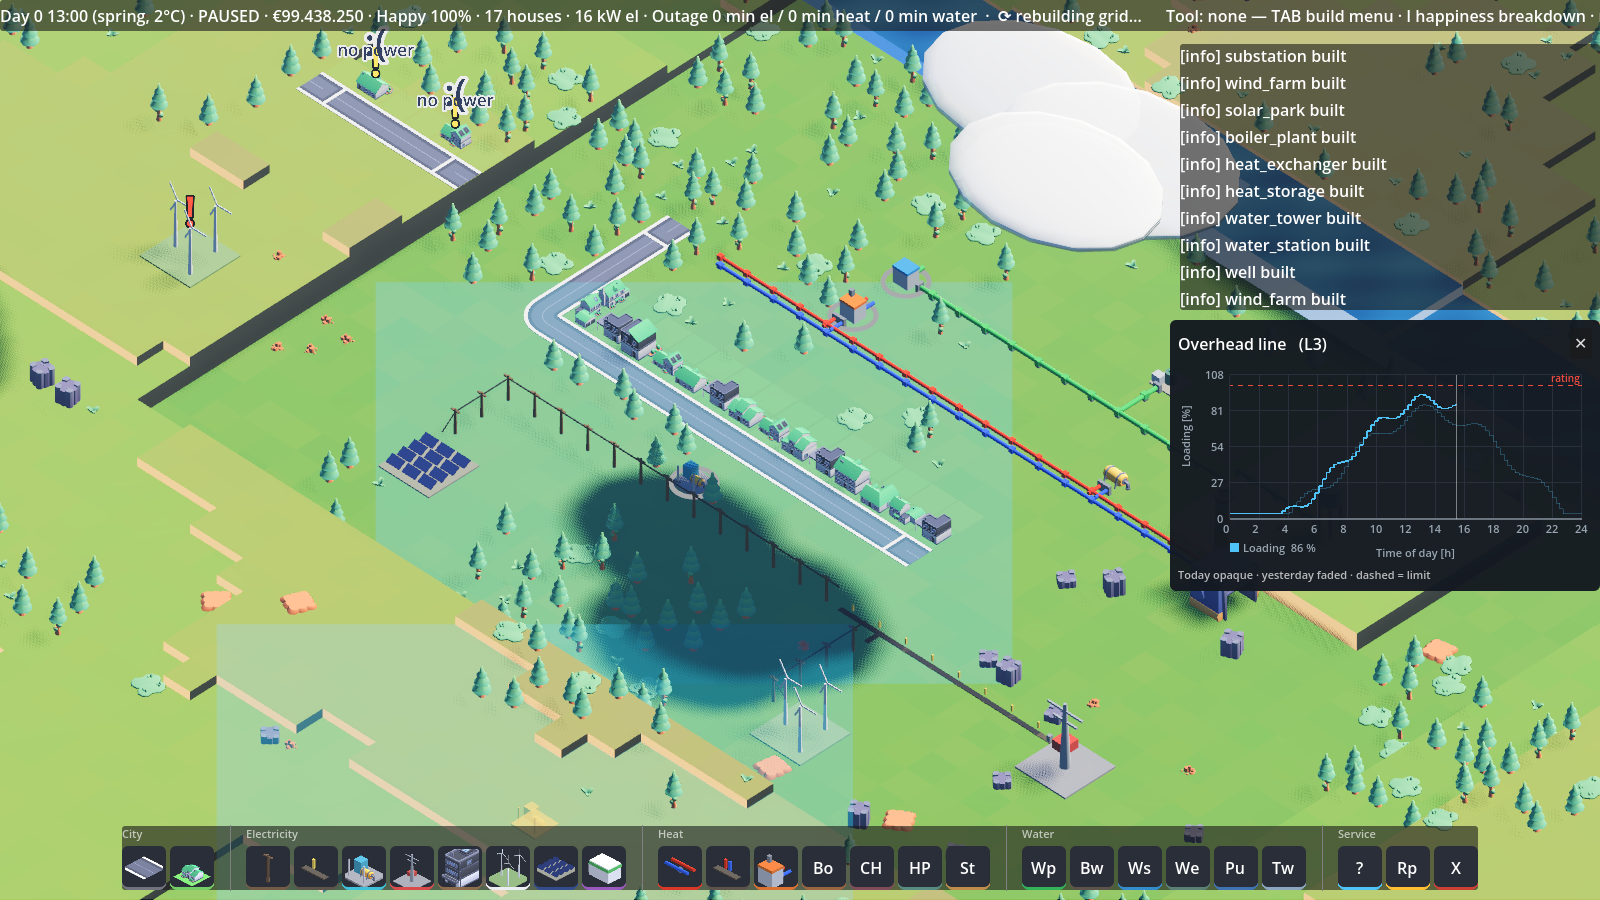
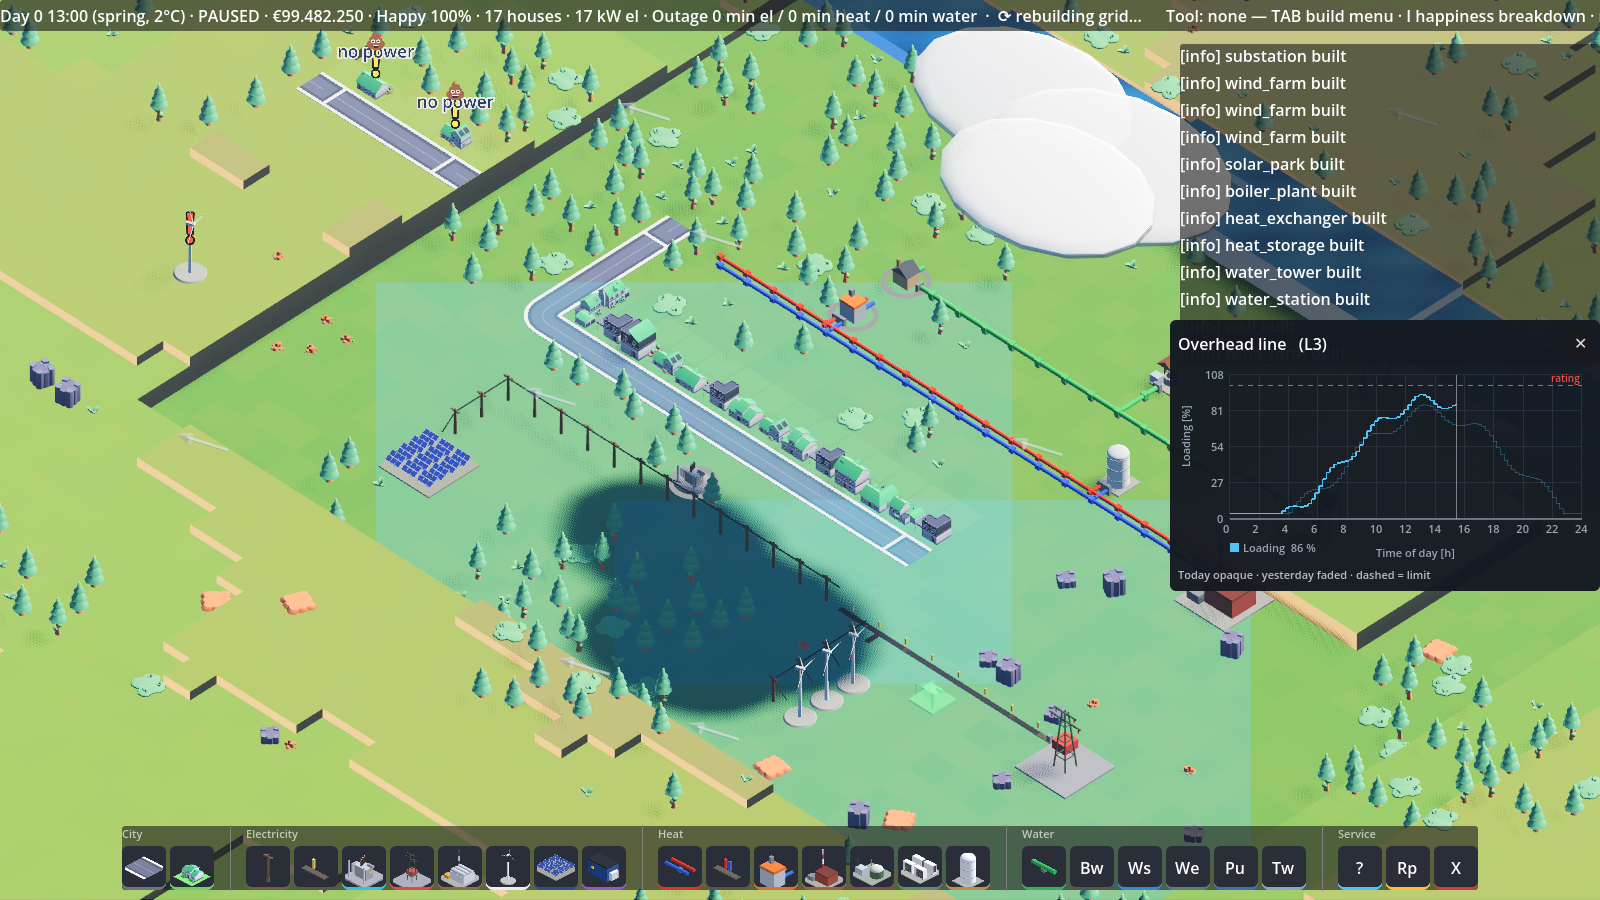
CLAUDE.md day snapshot + README/screenshot renewal after the model pass
CLAUDE.md §7 rewritten as the full 2026-07-31 picture: morning (Linux
port, CI repairs, numba) and the user-driven feature/visual day
(weather-coupled PV, wind + arrows, individual turbines, emoji bubbles,
house inspector, the model pass), with v0.8.3 flagged as the natural
next release. README: individual 3-MW turbines instead of the 9-MW
farm, weather-coupled PV in the demand bullet, wind/turbine-yaw/emoji
in the living-map bullet, houses in the inspector sentence. Day+night
screenshots re-rendered with every new model in frame.

diff --git a/CLAUDE.md b/CLAUDE.md
@@ -322,25 +322,41 @@ re-verified green).
 - The user's memory preference: **lean solo work; state the scale and ask
   before any multi-agent fan-out** (they stopped costly workflows twice).
 
-## 7. Verified state (2026-07-31, Linux port complete)
+## 7. Verified state (2026-07-31 evening, Linux port + visual/systems day)
 
-Everything re-verified NATIVELY ON LINUX after the machine switch:
-GdUnit 98/98 · all 21 smokes green (19 standalone + resilience/cosim-kill
-via the new tests/e2e/*.sh wrappers; the PLAYTEST monkey — a seeded random
-player through the real City APIs with invariant checks — caught houses
-growing on cables and on paved-over zones on day one, both fixed + pinned)
-· shared contract suite 4/4 · full backend suites green (power 192, heat
-213, water 283 — the water EPANET cross-validation errors spuriously if
-game smokes run CONCURRENTLY: its session leak guard counts live
-rtwaterflow.main processes and sees the smoke's sidecars; rerun alone) ·
-releases on GitHub: v0.8.0 + v0.8.1 (verified Windows installers) and
-v0.8.2 (the Linux tarball, built + verified from a fresh extraction;
-a 0.8.2 Windows installer still needs a Windows machine). Repo front
-door done 2026-07-31: README + screenshots (--screenshot mode, day +
-night) + MIT LICENSE + repo description. Phase 8 delivered: envelope v4 (trips, econ books,
-event-system state incl. RNG position, device SoC survive loads), SoC
-replay on every registration (heatstorage smoke pins 0.79→0.79), drag
-stalls halved, `WorldModel.check_invariants`, Windows installer, Linux
-port + tarball. Remaining: contract 1.2 candidates (emitter leaks, CHP
-fuel field, multi-network heat), river BRIDGES (mini-forest ships
-bridge.glb), dry-home visuals, terrain-aware coverage discs.
+MORNING — the machine switch: everything re-verified NATIVELY ON LINUX,
+GdUnit green, all 21 smokes (19 standalone + resilience/cosim-kill via the
+new tests/e2e/*.sh wrappers), shared contract suite 4/4, full backend
+suites green (power 192, heat 213, water 283 — the water EPANET
+cross-validation errors spuriously if game smokes run CONCURRENTLY: its
+session leak guard counts live rtwaterflow.main processes and sees the
+smoke's sidecars; rerun alone). CI repaired the same day: the backend
+docker workflows were broken by `docs` in .dockerignore vs `COPY docs/`
+(both backends serve /manual from docs/ — fixed + verified green on CI),
+and infrastruct's own ci had the win64 console-wrapper rename bug (exit
+127; pair-rename fixed, fail-fast off, rtwaterflow added to the matrix —
+one manual dispatch run verified all six jobs green). numba installed
+explicitly in all three venvs (see §5/§6).
+
+AFTERNOON/EVENING — the user-driven feature + visual day, each landed
+green (GdUnit 98/98 + targeted smokes, full battery after the wind
+split): weather-coupled PV (clearness picks the measured day), wind
+direction + camera-relative grey arrows + eased veering, INDIVIDUAL 3-MW
+wind turbines on round pads (was the 2x2 9-MW farm), poop-emoji misery
+bubbles ('no power'/'freezing'), per-house inspector profiles
+(net/consumption/pv from DemandModel), and the full MODEL PASS: every
+plant/utility building rebuilt after Sketchfab references (see §4).
+README + screenshots renewed after the model pass.
+
+Releases on GitHub: v0.8.0 + v0.8.1 (verified Windows installers) and
+v0.8.2 (the Linux tarball, built + verified from a fresh extraction; a
+0.8.2 Windows installer still needs a Windows machine; everything after
+v0.8.2 is unreleased on main — a v0.8.3 bundling the visual/systems day
+is the natural next release). Phase 8 delivered: envelope v4 (trips,
+econ books, event-system state incl. RNG position, device SoC survive
+loads), SoC replay on every registration (heatstorage smoke pins
+0.79→0.79), drag stalls halved, `WorldModel.check_invariants`, Windows
+installer, Linux port + tarball. Remaining: contract 1.2 candidates
+(emitter leaks, CHP fuel field, multi-network heat), river BRIDGES
+(mini-forest ships bridge.glb), dry-home visuals, terrain-aware coverage
+discs.

diff --git a/README.md b/README.md
@@ -28,10 +28,11 @@ solvers, never out of a script.
 
 The design premise: **if the physics says it, the city shows it.** A tripped
 20-kV branch de-energizes its substation's zone and the affected houses raise
-":( no power" bubbles; a dead-end heat pipe is rejected by the hydraulics; an
+💩 "no power" bubbles; a dead-end heat pipe is rejected by the hydraulics; an
 empty water tower collapses the boundary head and the frames come back
-`degraded`. The inspector opens a daily profile graph on any building, line or
-pipe — solved loading against its rating, today opaque, yesterday faded.
+`degraded`. The inspector opens a daily profile graph on any building, house,
+line or pipe — solved loading against its rating (for homes: their expected
+consumption and rooftop-PV infeed), today opaque, yesterday faded.
 
 A German printable user manual ships with each backend
 (`docs/Benutzerhandbuch.pdf` in the backend repos, served at `GET /manual`).
@@ -68,11 +69,13 @@ pump's power draw) from one solver into the next step of the other.
   under houses. Kind transitions become real junction buses in the solved grid.
 - **Real ratings, real consequences.** 110/20-kV grid connection (20 MVA),
   20/0.4-kV Ortsnetzstationen (630 kVA) as real transformer elements, catalog
-  line types with actual MVA limits. MW-scale generation — a 9-MW wind farm, a
-  1.2-MWp solar park — is what overloads MV lines; household districts alone
-  barely register.
-- **A demand model with a shape.** Zone load = BDEW H0 base + EV home charging
-  (gaussian arrival, workday peak ~19:00) − rooftop PV on measured day shapes.
+  line types with actual MVA limits. MW-scale generation — 3-MW wind turbines
+  placed one by one, a 1.2-MWp solar park — is what overloads MV lines;
+  household districts alone barely register.
+- **A demand model with a shape — and weather.** Zone load = BDEW H0 base +
+  EV home charging (gaussian arrival, workday peak ~19:00) − rooftop PV on
+  measured day shapes, where the seeded cloud field decides HOW sunny each
+  day's shape is: overcast skies visibly dim rooftop and park dispatch alike.
   Sunny noon exports; the battery peak-shaves against its own moving average;
   gas covers the residual.
 - **Signals, trips and repair crews.** Capacity warnings float over lines ≥80 %,
@@ -89,8 +92,11 @@ pump's power draw) from one solver into the next step of the other.
 - **Scenarios.** Sandbox, a 9-step tutorial, greenfield, an inherited relic
   grid that loses by misery if left untouched, and an energy-transition path.
 - **A living map.** Procedural terrain with rivers (wells near water yield
-  more), groves and stone fields, drifting clouds with real shadows, a full
-  day/night cycle where window lights follow the power state of the house.
+  more), groves and stone fields, clouds that drift with a slowly veering
+  wind (small grey arrows show its direction, turbines yaw to face it and
+  spin with its strength), real cloud shadows, a full day/night cycle where
+  window lights follow the power state of the house — and households that
+  raise a 💩 bubble when the power or the heating lets them down.
 
 ---
 
